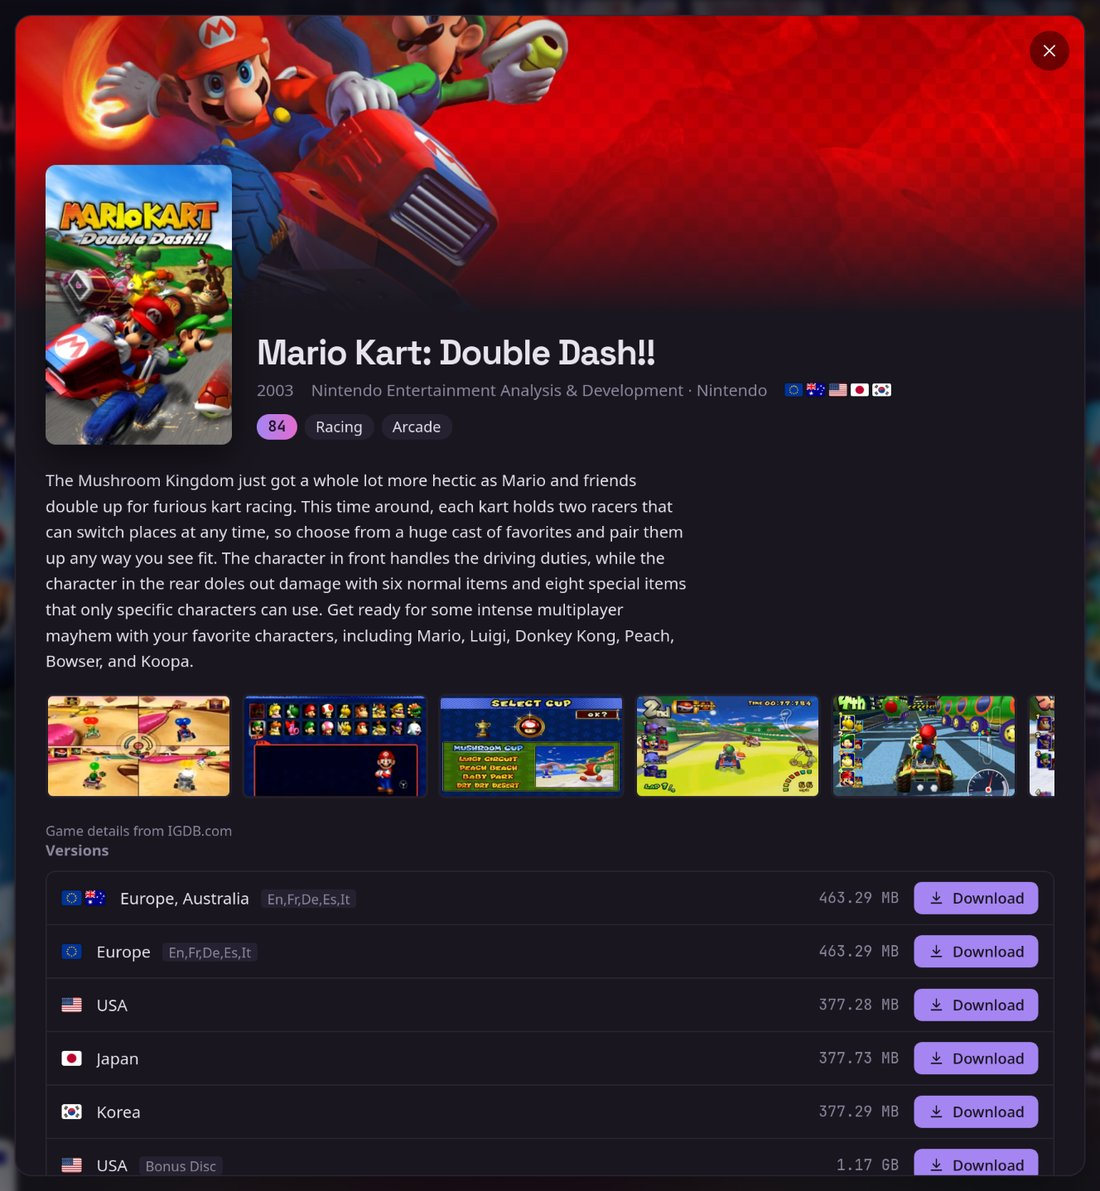
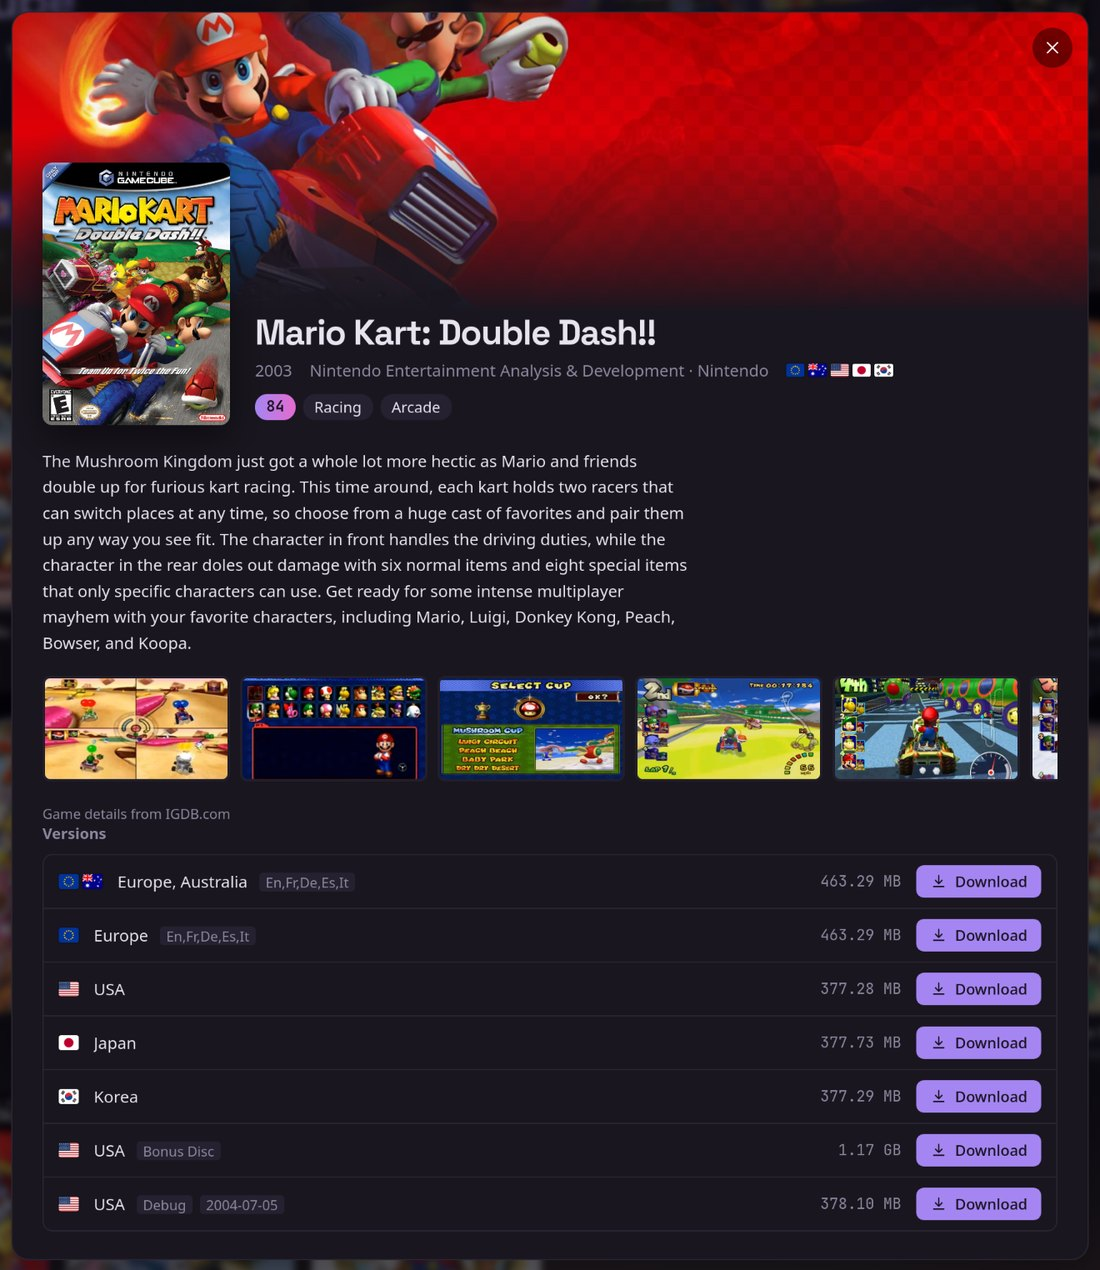
Update the README and screenshots
New Thor screenshots (box shapes, the bottom-screen overview, sorting and
the details gallery), fresh desktop ones with the libretro covers, a
controller section, Android build notes, and a friendlier tone throughout.

diff --git a/README.md b/README.md
@@ -5,14 +5,15 @@
 <h1 align="center">Owlcart</h1>
 
 <p align="center">
-  Browse the <a href="https://minerva-archive.org">Minerva Archive</a> by console, see cover art and game details,<br />
-  and download just the games you want, straight into folders your emulator front-end understands.
+  A friendly way to browse the <a href="https://minerva-archive.org">Minerva Archive</a>, see what's worth playing,<br />
+  and grab just the games you want, already sorted into the folders your emulator expects.
 </p>
 
 <p align="center">
   <a href="../../releases/latest"><b>Download</b></a> ·
   <a href="#features">Features</a> ·
   <a href="#keyboard-shortcuts">Shortcuts</a> ·
+  <a href="#controller-buttons">Controller</a> ·
   <a href="#building-from-source">Build</a> ·
   <a href="#game-data">Game data</a>
 </p>
@@ -31,6 +32,7 @@
   <br />
   <img src="https://img.shields.io/badge/Windows-0078D4?logo=windows&logoColor=white" alt="Windows" />
   <img src="https://img.shields.io/badge/Linux-FCC624?logo=linux&logoColor=black" alt="Linux" />
+  <img src="https://img.shields.io/badge/Android-34A853?logo=android&logoColor=white" alt="Android" />
 </p>
 
 <p align="center">
@@ -41,32 +43,76 @@
 
 ## Features
 
-**Find games**
-- 🎮 **Console picker** with 43 systems across Nintendo, Sega, Sony, Microsoft, NEC, SNK, Atari and more (<kbd>Ctrl</kbd> <kbd>K</kbd>)
-- 🖼 **List or grid view**, with cover art and smooth, animated filtering
-- 🌍 **Region filters** shown as flags, with live counts
-- 🗂 **One card per game**: every region and revision of a game, even under different titles (*Biohazard 2* and *Resident Evil 2*), is grouped, with your preferred region's latest version first
-- ⭐ **Sort by rating**, using IGDB ratings weighted by how many reviews they're based on
-- 📖 **Game details**: summary, release date, developer, genres, rating and screenshots, plus every regional version side by side
-- 🧩 **Updates & DLC** for Xbox 360, PS3, 3DS and Wii, matched to each game and listed in its details
+Minerva keeps whole console libraries as single torrents, which is great for preservation
+and less great when you just want *Suikoden II*. Owlcart puts a proper game browser on top:
+pick a console, find the game, press download, and that one game turns up in the right
+folder, unzipped and checked.
 
-**Download them**
-- ⚡ **Single games from huge torrents**: Owlcart fetches only the file you pick, not the whole console set
-- 📁 **ES-DE folder names** (`psx`, `gbc`, `n64`, `xbox360`…) so games drop straight into ES-DE, Batocera and similar
-- 📦 **Automatic extraction** of `.zip` files, with every file checked against its checksum
-- ✅ **Already-downloaded games are marked**, including ones from before you installed Owlcart
-- 🔔 **Downloads popover** with progress, speed, pause, resume and retry
+### Finding something to play
+
+Choose from 43 consoles (<kbd>Ctrl</kbd> <kbd>K</kbd>), then browse as a list or a grid of
+cover art. Every game gets one card, however many regions and revisions it came out in, so
+*Biohazard 2* and *Resident Evil 2* sit together, and so do *Tomorrow Never Dies* and
+*Der Morgen Stirbt Nie*. Your own region's latest version comes first.
+
+You can narrow things down by name or by region. The region filter starts on USA, Europe,
+Japan and worldwide releases, and remembers whatever you change it to. *Games only* hides the
+demos, betas and prototypes, and sorting by rating puts a console's best games first. Ratings
+come from IGDB and take review counts into account, so a game rated 98 by three people doesn't
+beat one rated 95 by hundreds.
+
+Open a game for its summary, release date, developer, genres and screenshots, plus every
+version side by side. Xbox 360, PS3, 3DS and Wii games also list their updates and DLC.
 
 <p align="center">
   <img src="docs/screenshots/details.jpg" width="720" alt="The details window for Mario Kart: Double Dash!!: banner, cover, year, developer, region flags, rating and genres, a summary, screenshots and every version with download buttons" />
   <br />
-  <sub>Click any game for its details and every regional version.</sub>
+  <sub>Click any game to see its details and every regional version.</sub>
 </p>
 
-**Make it yours**
-- 🎨 Light and dark themes that follow your system
-- ⌨ [Keyboard shortcuts](#keyboard-shortcuts) for everything
-- 🦉 Fetch cover art and details yourself from inside the app (free API keys)
+### Downloading
+
+Owlcart only fetches the file you picked, not the whole multi-hundred-gigabyte console set.
+Games land in [ES-DE](https://es-de.org) style folders (`psx`, `gbc`, `n64`…), so ES-DE,
+Batocera and friends pick them up straight away. Zips are unpacked and every file is checked
+against its checksum. Games you already have are marked, even ones you downloaded before
+Owlcart came along, and the downloads button keeps track of progress with pause, resume and
+retry.
+
+### On handhelds
+
+Owlcart runs on Android too, and it's at its best on a handheld. The D-pad moves through
+games, the face buttons download and search, and <kbd>L2</kbd> <kbd>R2</kbd> flip between
+consoles. The on-screen hints switch to your controller's buttons once it's connected.
+
+If you've got a dual-screen device like the AYN Thor, the second screen joins in. Browse on
+the top screen and the bottom one shows the highlighted game: its details, its versions and a
+slideshow of screenshots. With nothing highlighted, it shows the console's top-rated games
+instead. Open a game's details and the bottom screen becomes a screenshot gallery, with a few
+games like it underneath in case you're after something similar.
+
+A few smaller touches: covers take the shape of each console's real boxes, so PlayStation
+games get square jewel cases and SNES games get wide boxes. Each console has its own colour,
+and you can switch on rumble and menu sounds if you like a bit of feedback.
+
+<table align="center">
+  <tr>
+    <td align="center"><img src="docs/screenshots/thor-browse.jpg" width="400" alt="Owlcart on the AYN Thor: PlayStation games with square jewel-case covers on the top screen, The World Is Not Enough highlighted, and its rating, summary and every regional version (including the German and French titles) on the bottom screen" /><br /><sub>Browse on top, details below. PlayStation's covers are square</sub></td>
+    <td align="center"><img src="docs/screenshots/thor-overview.jpg" width="400" alt="Owlcart on the AYN Thor: SNES games with wide landscape boxes on the top screen, and the console's top-rated games on the bottom screen" /><br /><sub>Nothing highlighted? The console's best. SNES boxes are wide</sub></td>
+  </tr>
+  <tr>
+    <td align="center"><img src="docs/screenshots/thor-sort.jpg" width="400" alt="Owlcart on the AYN Thor: PlayStation 2 games in tall DVD-case covers, sorted by rating with the sort options open and Final Fantasy X highlighted, and its versions on the bottom screen" /><br /><sub>Sorting by rating, in PS2's tall cases</sub></td>
+    <td align="center"><img src="docs/screenshots/thor-details.jpg" width="400" alt="Owlcart on the AYN Thor: Final Fantasy X's details on the top screen, and a large screenshot gallery with thumbnails and a More like this shelf of RPGs on the bottom screen" /><br /><sub>Details on top, screenshots and similar games below</sub></td>
+  </tr>
+</table>
+
+### And the rest
+
+Light and dark themes follow your system, and there are [keyboard shortcuts](#keyboard-shortcuts)
+for just about everything. When a new version comes out, a little *update available* button
+appears at the top. It takes you to the release (or, on Android, straight to the new APK);
+nothing installs itself, and you can turn the check off in Settings. If a console is missing
+cover art, you can fetch it yourself from inside the app with free API keys.
 
 ## Download
 
@@ -74,21 +120,22 @@ Grab the latest build from [**Releases**](../../releases/latest).
 
 | Platform | File | Notes |
 | --- | --- | --- |
-| **Windows** | `Owlcart_x.y.z_x64-setup.exe` | The installer isn't code-signed yet, so Windows SmartScreen may warn the first time; choose *More info → Run anyway*. |
+| **Windows** | `Owlcart_x.y.z_x64-setup.exe` | The installer isn't code-signed yet, so SmartScreen may warn you the first time. Choose *More info → Run anyway*. |
 | **Linux (Debian, Ubuntu)** | `.deb` | |
 | **Linux (Fedora, openSUSE)** | `.rpm` | |
-| **Linux (anything else)** | `.AppImage` | `chmod +x` and run. |
+| **Linux (anything else)** | `.AppImage` | `chmod +x` it and run. |
+| **Android** | `Owlcart_x.y.z_android_arm64.apk` | For 64-bit ARM phones and handhelds. Android will ask you to allow installs from your browser or file manager. |
 
-Everything is built in, including the BitTorrent engine, so there's nothing else to install.
+The BitTorrent engine is built in, so there's nothing else to install.
 
 ## Getting started
 
 1. **Pick a console** from the picker at the top (<kbd>Ctrl</kbd> <kbd>K</kbd>).
-2. **Find a game**: filter by name (<kbd>/</kbd>), tap region flags, or switch to grid view (<kbd>V</kbd>).
-3. **Click a game** to see its details and every version, then hit **Download**. To grab several at once, tick them and use the selection bar.
-4. Watch progress from the **download button** in the title bar (<kbd>D</kbd>). Finished games land in `Downloads/Owlcart/<console>/`, already unzipped.
+2. **Find a game.** Type to filter (<kbd>/</kbd>), tap a region flag, or switch to the grid (<kbd>V</kbd>).
+3. **Open it** to see its details and versions, then hit **Download**. Want a few? Tick them and use the bar at the bottom.
+4. **Keep an eye on things** with the downloads button in the title bar (<kbd>D</kbd>). Finished games end up in `Downloads/Owlcart/<console>/` (on Android, `ROMs/<console>/` on your main storage), already unzipped.
 
-Everything else, including the download folder, extraction, folder naming and cover art, is in **Settings** (<kbd>Ctrl</kbd> <kbd>,</kbd>).
+The download folder, extraction, folder names and cover art settings all live in **Settings** (<kbd>Ctrl</kbd> <kbd>,</kbd>).
 
 ## Keyboard shortcuts
 
@@ -107,23 +154,49 @@ Everything else, including the download folder, extraction, folder naming and co
 | <kbd>Esc</kbd> | Close, then clear the filter, then the selection |
 | <kbd>?</kbd> | Show all shortcuts |
 
-On macOS, use <kbd>⌘</kbd> instead of <kbd>Ctrl</kbd>.
+On a Mac, use <kbd>⌘</kbd> instead of <kbd>Ctrl</kbd>.
+
+## Controller buttons
+
+On Android, a controller (built in or paired) works like this. Press <kbd>Select</kbd>, or tap
+**?** at the top, to see the list in the app.
+
+| Button | Action |
+| --- | --- |
+| D-pad | Move through games |
+| <kbd>A</kbd> | Open game details |
+| <kbd>B</kbd> | Back |
+| <kbd>X</kbd> | Download the highlighted game (or the selected ones) |
+| <kbd>Y</kbd> | Search |
+| <kbd>L1</kbd> <kbd>R1</kbd> | Page up / down |
+| <kbd>L2</kbd> <kbd>R2</kbd> | Previous / next console |
+| <kbd>Start</kbd> | Downloads |
+| <kbd>Select</kbd> | Show these buttons |
+| <kbd>L3</kbd> | Switch between list and grid |
+| <kbd>R3</kbd> | Games only (hide demos, betas and prototypes) |
 
 ## How it works
 
-Minerva publishes each console as one large torrent, often hundreds of gigabytes. Owlcart
-downloads only the game you choose:
+Minerva publishes each console as one big torrent, often hundreds of gigabytes. Here's how
+Owlcart gets just one game out of it:
 
-1. It reads the console's listing on minerva-archive.org. Each game's page gives the
-   console's `.torrent` and the game's position inside it.
-2. The `.torrent` is downloaded once and cached. Owlcart's built-in BitTorrent engine
-   ([librqbit](https://github.com/ikatson/rqbit)) fetches just that one file.
+1. It reads the console's listing on minerva-archive.org. Each game's page points to the
+   console's `.torrent` and says where the game sits inside it.
+2. It downloads the `.torrent` once and caches it, then the built-in BitTorrent engine
+   ([librqbit](https://github.com/ikatson/rqbit)) fetches only that one file.
 3. The game downloads into a hidden temporary folder. Torrent pieces overlap neighbouring
-   files, so small fragments of those get written too, and they're thrown away. Then the
-   game is moved into its console folder and unzipped.
+   files, so a few scraps of those come along too and get thrown away. Then the game is
+   moved into its console folder and unzipped.
 
-The engine handles one download per torrent at a time, so games from the same console queue
-up, while different consoles download in parallel.
+The engine handles one download per torrent at a time, so games from the same console wait
+their turn, while different consoles download side by side.
+
+Listing pages can be several megabytes, so Owlcart asks for them compressed and keeps a copy
+of each console it's opened. Next time that console shows straight away, and Owlcart quietly
+checks with the server whether anything changed (usually nothing has). On Android, the
+consoles either side of the current one are loaded ahead of time too, so flicking through
+them with <kbd>L2</kbd> <kbd>R2</kbd> is instant. A side effect is that consoles you've visited
+can still be browsed offline.
 
 ## Building from source
 
@@ -136,27 +209,50 @@ npm run tauri dev      # run in development
 npm run tauri build    # installers end up in src-tauri/target/release/bundle/
 ```
 
-**librqbit** is used from a local copy in `src-tauri/vendor/librqbit` with one change: a
-larger per-peer read buffer, needed for Minerva's very large torrents. See
-`OWLCART-CHANGES.md` there.
+**Android:** you'll also need the Android SDK and NDK (see Tauri's
+[Android prerequisites](https://v2.tauri.app/start/prerequisites/#android)). Then:
+
+```sh
+npm run tauri android build -- --apk --target aarch64
+```
+
+Release APKs are signed with the key named in `src-tauri/gen/android/keystore.properties`
+(`storeFile`, `keyAlias` and `password`; it isn't in git). Without that file the APK comes out
+unsigned. Every release has to use the same key, or Android won't install it as an update.
+
+librqbit lives in `src-tauri/vendor/librqbit` with a couple of small changes. Minerva's
+torrents are big enough that it needed a larger per-peer read buffer, and on Android it uses
+bundled root certificates for HTTPS. `OWLCART-CHANGES.md` in there has the details.
 
 ## Game data
 
-Cover art and game details come from [SteamGridDB](https://www.steamgriddb.com) and
-[IGDB](https://www.igdb.com). They're looked up once with your own free API keys and saved as
-static JSON, so the app never ships with a key.
+Box art comes first from the [libretro thumbnails](https://github.com/libretro-thumbnails/libretro-thumbnails)
+collection (the one RetroArch uses). It's sorted by system and named after the same No-Intro
+and Redump file names as Minerva, so an Xbox game gets the Xbox box, not the GBA one. Games it
+doesn't have fall back to [SteamGridDB](https://www.steamgriddb.com), then
+[IGDB](https://www.igdb.com), which also provides the game details. Everything is looked up
+ahead of time and saved as plain JSON, so the app itself never needs a key. The `data/`
+folder is also packed into each build, so covers and details work straight away, even before
+any hosted data is set up.
+
+IGDB is also how regional versions end up on one card. Each title is matched to an IGDB game,
+by its name or, for other languages, by the alternative names IGDB keeps (that's how
+*Demain ne Meurt Jamais* finds *Tomorrow Never Dies*). Titles with the same IGDB game are
+grouped.
 
 ```
 data/
 ├── index.json                       consoles, versions and counts
 └── <console>/
-    ├── covers.json                  title → cover (SteamGridDB, with IGDB as a fallback)
+    ├── covers.json                  title → cover (libretro, then SteamGridDB, then IGDB)
+    ├── games.json                   title → IGDB id, rating and review count (for grouping and sorting)
     └── details/00.json … ff.json    IGDB details, split into 256 small files by title hash
 ```
 
-The app loads a console's `covers.json` when you open it, and only the one small details file
-a game needs when you open its details. Downloads are cached on disk and only refreshed when
-that console's `updated` value in `index.json` changes, so browsing also works offline.
+When you open a console, the app loads its `covers.json` and `games.json`. Details are only
+fetched when you open a game, and then just the one small file it lives in. Everything is
+cached on disk and only refreshed when that console's `updated` value in `index.json` changes,
+so browsing works offline too.
 
 ### Fetching data
 
@@ -177,29 +273,38 @@ project's `data/` folder if you want to commit the results.
    npm run data                  # update every console that already has data
    ```
 
-   Re-runs only look up new titles and keep hand edits. `--retry-missing` retries titles that
-   found nothing, and `--verbose` prints each match.
+   Running it again only looks up new titles, and your hand edits are kept. A few options:
 
-`consoles.json` lists every console in the picker (group, name, ES-DE folder, Minerva link, IGDB
-platform). It ships inside the app, and consoles added to the hosted `index.json` later appear
-without an app update.
+   - `--retry-missing` has another go at titles that found nothing. It works in quick
+     batches and skips demos, betas and BIOS files, so even every console at once takes well
+     under an hour.
+   - `--refresh-ratings` updates ratings and review counts.
+   - `--libretro` swaps existing covers for libretro's wherever it has one.
+   - `--verbose` prints every match.
+
+   `npm run data:list` shows what you've got so far.
+
+`consoles.json` lists every console in the picker: its group, name, ES-DE folder, Minerva link,
+IGDB platform, libretro thumbnails folder and box shape. It ships inside the app, and consoles
+added to the hosted `index.json` later appear without an app update.
 
 ### Publishing data
 
-Host the `data/` folder (GitHub Pages works well) and set `DEFAULT_DATA_URL` in
-`src-tauri/src/jobs.rs`. Users can override it in Settings, and a local folder works too.
+Host the `data/` folder somewhere (GitHub Pages is fine) and set `DEFAULT_DATA_URL` in
+`src-tauri/src/jobs.rs`. People can point the app somewhere else in Settings, and a local
+folder works too.
 
 ## Releases
 
-Pushing to `main` with a version that hasn't been released yet builds Windows and Linux
-installers on GitHub Actions and publishes them as a release.
+Push to `main` with a version that hasn't been released yet, and GitHub Actions builds the
+Windows, Linux and Android versions and publishes them as a release.
 
 ```sh
 npm run bump -- patch     # or minor / major / 1.2.3: updates every version field
 git commit -am "Release v0.1.1" && git push
 ```
 
-Releases start as drafts and are only published once both builds succeed.
+Releases start as drafts and only go public once every build has succeeded.
 
 ## Tests
 
@@ -227,7 +332,14 @@ src-tauri/src/       Rust backend
   fetch.rs           in-app cover and details fetching
   covers.rs          SteamGridDB lookups and title matching
   extract.rs         safe .zip extraction
-scripts/             data builder and version bump
+  bundled.rs         game data shipped inside the app, unpacked on first run
+  second_screen.rs   dual-screen support (Android)
+  gamepad.rs         controller detection and rumble (Android)
+  folder_picker.rs   choosing a download folder (Android)
+src-tauri/gen/android/app/src/main/
+  java/dev/owlcart/app/   Kotlin side of the Android plugins, and MainActivity
+  assets/second-screen.html   the page shown on a second screen
+scripts/             data builder (libretro, SteamGridDB and IGDB lookups) and version bump
 data/                published covers and details
 consoles.json        consoles shown in the picker
 ```
@@ -236,8 +348,10 @@ consoles.json        consoles shown in the picker
 
 - Games are hosted by the [Minerva Archive](https://minerva-archive.org) community. Owlcart is an
   independent client and isn't affiliated with Minerva.
-- Game details from [IGDB.com](https://www.igdb.com). Cover art from [SteamGridDB](https://www.steamgriddb.com).
+- Game details from [IGDB.com](https://www.igdb.com). Box art from the
+  [libretro thumbnails](https://github.com/libretro-thumbnails/libretro-thumbnails) project and
+  [SteamGridDB](https://www.steamgriddb.com).
 - Downloads by [librqbit](https://github.com/ikatson/rqbit) (Apache-2.0). Flags from [flag-icons](https://github.com/lipis/flag-icons).
   Fonts: Space Grotesk and JetBrains Mono.
 
-Only download games you're entitled to under the laws where you live.
+Please only download games you're entitled to where you live.
